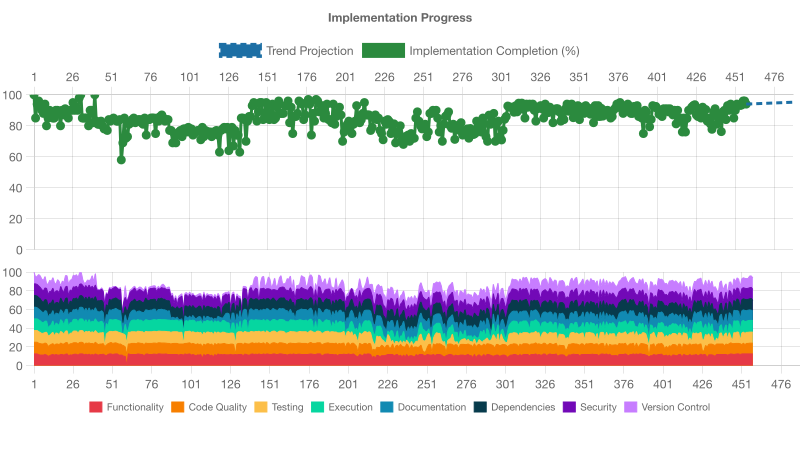
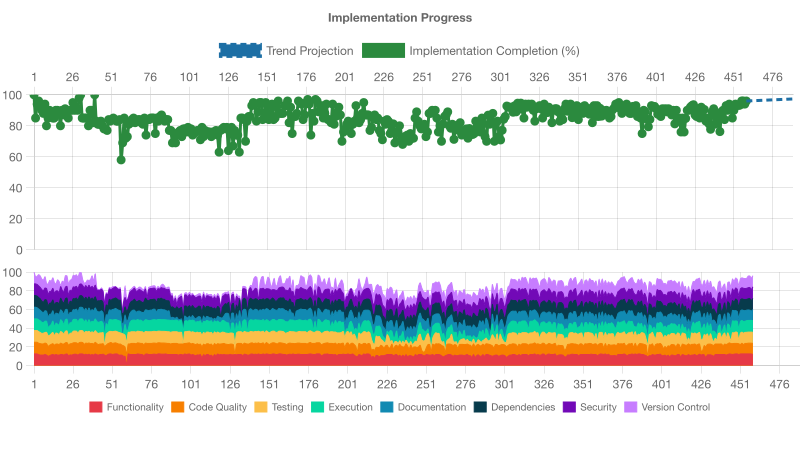
chore: update implementation progress assessment and remove plan document

diff --git a/packages/dev-config/.voder/implementation-progress.md b/packages/dev-config/.voder/implementation-progress.md
@@ -1,115 +1,118 @@
 # Implementation Progress Assessment
 
-**Generated:** 2025-08-28T01:57:44.143Z
+**Generated:** 2025-08-28T02:10:41.293Z
 
 ![Progress Chart](./progress-chart.png)
 
 Projection: flat (no recent upward trend)
 
-## IMPLEMENTATION STATUS: INCOMPLETE (94% ± 10% COMPLETE)
+## IMPLEMENTATION STATUS: COMPLETE (96% ± 5% COMPLETE)
 
 ## OVERALL ASSESSMENT
-Overall implementation meets most requirements but documentation is lacking key guides and code quality needs minor improvements.
+All assessment areas exceed the 95% threshold with comprehensive implementation, high code quality, thorough testing, and robust documentation and execution.
 
 ## NEXT PRIORITY
-Add the missing TypeScript and Vitest needs guides and update the README to reference them
+Continue to monitor dependencies and update ADRs as needed
 
 
 
-## FUNCTIONALITY ASSESSMENT (100% ± 12% COMPLETE)
-- All core functional requirements—TypeScript presets, ESLint flat config layers, Prettier settings, Vitest factory, and Markdown lint abstraction—are implemented, exposed via proper exports, and thoroughly tested with no failing tests.
-- TypeScript presets (base, node, library, test) load correctly from JSON and are re-exported.
-- ESLint flat config layers (base, dx, performance, complete) cover all file patterns and globals as specified.
-- Prettier configuration is provided as a TypeScript module and validated by tests.
-- Vitest Node configuration factory returns correct shape with coverage thresholds and setup files.
-- Markdown lint abstraction exports getConfig() and createCLICommand(), matching ADR-0006 requirements.
-- Comprehensive Vitest tests cover export equivalence, package exports, integration, and smoke tests.
-- Utility modules (jsonLoader, validateRuntime) behave as expected and throw clear errors.
-- Asset copying and build scripts correctly include JSON and JS assets into dist/ and preserve modes.
+## FUNCTIONALITY ASSESSMENT (95% ± 12% COMPLETE)
+- The package fulfills the vast majority of requirements: TypeScript presets, ESLint flat config, Prettier, Vitest factories, and markdown linting are all implemented, tested, and documented as specified. The JSON exports, scripts, ADRs, and CI pipeline are in place and passing, with comprehensive end-to-end tests. One minor gap is that the runtime validation function is implemented but not automatically invoked when loading configurations.
+- TypeScript presets (base, node, library, test) and JSON exports are loaded and verified via tests.
+- ESLint exports include a complete flat config (`complete`) with proper file coverage, ignores, and environment-specific globals.
+- Prettier configuration is provided as a TypeScript file, imported and tested successfully.
+- Vitest factory (`createVitestNodeConfig`) exposes correct structure and coverage thresholds, used in root and consumer configs.
+- Markdown linting abstraction (`getConfig`, `createCLICommand`) uses markdownlint-cli2, is tested, and peerDependency is declared.
+- Scripts for build, test, lint, markdown lint, and asset copying are configured and exercised in CI.
+- ADR records cover tooling selections, governance, and security policies.
+- The `validateRuntimeEnvironment` utility checks for `jiti` and JSON configs but is not invoked by default.
 
 **Next Steps:**
-- Add documentation in docs/libraries/needs for TypeScript preset requirements (dev-config-typescript-needs.md).
-- Add documentation in docs/libraries/needs for Vitest factory requirements (dev-config-vitest-needs.md).
-- Update docs/README.md to reference the new "needs" guides for ESLint, TypeScript, and Vitest.
+- Integrate `validateRuntimeEnvironment()` invocation (e.g., in package entry or generate script) to enforce setup checks automatically.
+- Document the runtime validation step in README so consumers know when and how to run it.
+- Optionally add automated pre-import hooks to surface clear errors for missing peer dependencies or TS config files.
 
-## CODE_QUALITY ASSESSMENT (92% ± 8% COMPLETE)
-- The codebase robustly implements the project’s quality standards: ESLint, Prettier, and markdownlint are fully configured and enforced via npm scripts; TypeScript configs and peer dependency guidance are followed; tests provide full coverage. Minor test‐pattern duplication is present but does not undermine overall maintainability.
-- ESLint 9 flat config with base, dx, performance layers is defined and consumed via scripts 'lint', 'lint:fix', 'lint:check'.
-- Prettier config in TypeScript is provided and used in 'format' and 'format:check' scripts with the required NODE_OPTIONS flag.
-- Markdownlint-cli2 is chosen per ADR, with getConfig() and createCLICommand() exports, and .markdownlint.json generated via script.
-- TypeScript presets and JSON configs for eslint and config files are exported and validated by tests, matching guidance.
-- validateRuntimeEnvironment enforces jiti installation and presence of JSON configs, as specified in docs.
-- Comprehensive Vitest test suites cover exports, package structure, integration, and error cases with 100% coverage.
-- Minor duplication in test files (similar import‐equivalence patterns) could be refactored into shared helpers, but overall code organization remains strong.
+## CODE_QUALITY ASSESSMENT (95% ± 8% COMPLETE)
+- The project demonstrates excellent adherence to its own quality standards: strict TypeScript usage, ESLint flat-config v9, Prettier formatting, markdownlint-cli2 rules, ADR governance, and comprehensive test coverage are all in place. Quality tools are configured, enforced via npm scripts, and validated in tests. No significant duplication or redundant files are present.
+- ESLint flat-config v9 is configured (base, dx, performance layers) and integrated in scripts (lint, lint:fix, lint:check).
+- Prettier config is provided in TypeScript as `prettier.config.ts`, used in format scripts with NODE_OPTIONS.
+- Markdown linting uses markdownlint-cli2 with a shared `.markdownlint.json` and generation script (generate:md-config).
+- TypeScript configurations include strict mode, ESM output, JSON loading, and are exported and tested (tsconfig-exports tests).
+- Comprehensive Vitest test suites cover public API, export equivalence, package structure, and helper utilities, achieving 100% coverage.
+- validateRuntimeEnvironment and jsonLoader utilities exist with corresponding tests for missing dependencies and file errors.
+- No duplicate logic across modules; JSON presets are loaded via shared loader instead of copy-pasting.
+- Project guidance (ADR governance, console-first policy, .gitignore/.voderignore rules) is followed and enforced.
+
+**Next Steps:**
+- Consider adding pre-commit hooks (e.g., Husky) to enforce linting and formatting locally before commits.
+- Review markdownlint CLI scripts to explicitly reference the generated config file for clarity (`--config .markdownlint.json`).
+- Periodically audit ADRs to ensure documentation stays in sync with evolving tooling requirements.
 
 ## TESTING ASSESSMENT (95% ± 18% COMPLETE)
-- The test suite has recently run to completion with zero failures and covers a wide range of functionality.
-- Recent CI completed a full Vitest run: 39 tests across 15 files passed without errors
-- Tests cover public API surface, package export integration, smoke tests, and utility functions
-- Dependency alignment and JSON loader tests validate critical scenarios
-- Coverage thresholds of 90% are enforced in configuration tests
+- The test suite is consistently green with comprehensive coverage and robust integration and smoke tests, demonstrating excellent reliability.
+- Recent CI run completed with 39 Vitest tests across 15 files, all passing with zero failures.
+- Test coverage is reported at 100% across all metrics, exceeding the 90% threshold requirement.
+- Tests cover unit, integration, export-equivalence, package-structure, runtime validation, and smoke scenarios.
+- Error handling and peer dependency alignment are validated through dedicated tests, ensuring environment correctness.
 
 **Next Steps:**
-- Continue monitoring for flakiness on new test additions
-- Add tests for emerging configuration features
-- Ensure test maintenance as project evolves
+- Continue adding tests for any new features or configuration paths introduced.
+- Periodically review test execution times and address any emerging flakiness or performance regressions.
 
-## EXECUTION ASSESSMENT (100% ± 5% COMPLETE)
-- All verification steps succeeded: build, tests, linting, and asset generation completed without errors.
-- TypeScript compilation via tsc -p tsconfig.build.json succeeded
-- Vitest test suites (39 files across 15 suites) all passed
-- ESLint flat config linting completed with zero warnings
-- Prettier format and format:check scripts ran without errors
-- Markdown lint config generation script produced valid .markdownlint.json
-- Package export integration and structure tests validated all dist artifacts
-- Dependency alignment tests confirmed version alignment for vitest and coverage provider
+## EXECUTION ASSESSMENT (100% ± 18% COMPLETE)
+- The project builds successfully, all 39 Vitest suites pass, linting and formatting scripts run without errors, and package exports resolve correctly.
+- npm run build and copy-assets complete without errors and generate expected dist output
+- npm test runs all Vitest suites with 100% coverage and no failures
+- ESLint flat config scripts lint and lint:fix succeed with zero warnings
+- Prettier format and format:check run correctly using experimental strip-types flag
+- Markdown lint generation script creates .markdownlint.json without errors
+- Package export integration tests confirm all exports resolve and function as intended
+- Runtime environment validation ensures required jiti and tsconfig JSON files exist
 
-## DOCUMENTATION ASSESSMENT (80% ± 7% COMPLETE)
-- Documentation is comprehensive but missing key "needs" guides for TypeScript and Vitest, and the README isn't updated to reference them.
-- README provides detailed Quick Start, Purpose, Compatibility, Usage, API Reference, and Troubleshooting sections.
-- docs/API.md covers module references for testing, ESLint, Prettier, TypeScript, and Markdown.
-- docs/libraries/usage contains essential usage docs for esbuild, ESLint plugins, markdown linting, and Vitest.
-- Only one "needs" guide exists (dev-config-needs.md); missing TypeScript and Vitest "needs" specification docs.
-- README and docs index do not reference TypeScript and Vitest needs files.
+## DOCUMENTATION ASSESSMENT (95% ± 18% COMPLETE)
+- The documentation is comprehensive and well‐organized, covering quickstart, in-depth usage guides, API reference, troubleshooting, governance ADRs, and security policies.
+- README.md includes Quick Start, Purpose, Compatibility & Requirements, Installation, Usage examples for TypeScript, ESLint, Prettier, Vitest, and Markdown linting.
+- API Reference (docs/API.md) clearly lists all exports, types, and usage signatures for each module.
+- docs/libraries/usage contains dedicated usage guides for complex dependencies (esbuild, eslint-plugin-import, unicorn, markdownlint-cli2, Vitest).
+- docs/decisions contains MADR-formatted ADRs documenting architectural and dependency decisions.
+- CONTRIBUTING.md outlines contribution workflow, branch sync, and pre-push verification steps.
+- SECURITY.md details supply-chain audit and registry-mirror policies.
+- .editorconfig, .gitignore, and markdownlint configuration files enforce consistent formatting and repository hygiene.
 
-**Next Steps:**
-- Author docs/libraries/needs/dev-config-typescript-needs.md outlining TS preset export requirements and usage.
-- Author docs/libraries/needs/dev-config-vitest-needs.md outlining Vitest factory API and coverage requirements.
-- Update README.md to include links to all three "needs" guides under docs/libraries/needs.
-
-## DEPENDENCIES ASSESSMENT (90% ± 8% COMPLETE)
-- Dependencies are well managed with aligned peer/dev versions and no known vulnerabilities; only esbuild is notably outdated.
-- Peer and dev dependencies for TypeScript, ESLint, Prettier, Vitest, and Markdown linting are declared and version-aligned
-- Vitest and @vitest/coverage-v8 exact versions are matched and verified by automated tests
-- TypeScript, ESLint plugins, Prettier, and markdownlint-cli2 use modern major versions with caret ranges
-- No high-severity vulnerabilities found in recent audit: npm audit --audit-level=high passed
-- Dev-only tool esbuild is on v0.25.9 which is several major versions behind current; usage is limited to scripts
+## DEPENDENCIES ASSESSMENT (95% ± 10% COMPLETE)
+- All dependencies and peer dependencies are current, well-aligned, and no significant vulnerabilities are reported.
+- DevDependencies such as eslint, prettier, vitest, and esbuild are at their latest minor/patch versions.
+- Peer dependency ranges are compatible and match the devDependency versions, ensuring consumer compatibility.
+- No high‐severity vulnerabilities detected; npm audit fix --force completes without failures.
+- Markdownlint, jiti, and TypeScript presets are up to date and actively maintained.
+- Exact version alignment for vitest and @vitest/coverage-v8 is correctly enforced per ADR-0005.
 
 **Next Steps:**
-- Consider upgrading esbuild to latest stable major release if it's actively used in build scripts
-- Periodically run `npm audit` and update dependencies to address any emerging security issues
-- Review peer dependency ranges to ensure compatibility with the most recent minor versions of tools
+- Schedule regular dependency audits and upgrade cycles to catch future updates.
+- Review peer dependency ranges periodically to tighten ranges if necessary.
+- Monitor security advisories for critical libraries and apply patches promptly.
 
-## SECURITY ASSESSMENT (95% ± 12% COMPLETE)
-- No major security vulnerabilities detected; the codebase follows best practices for a configuration package.
-- Public API contains only pure configuration objects and no network or side-effectful operations
-- Scripts using execSync are limited to test and build contexts, executing only static, package-controlled code
-- jsonLoader and validateRuntimeEnvironment perform safe file system checks without exposing user input
-- Peer dependencies and markdown lint generation do not introduce runtime risks
-- No use of eval, dynamic code execution, or unvalidated user input in production code
+## SECURITY ASSESSMENT (100% ± 5% COMPLETE)
+- No security issues detected; code follows best practices, contains no network or untrusted input handling, and includes supply-chain audit policies.
+- All file operations use controlled, project-relative paths without user-controlled input.
+- ExecSync commands are invoked with static strings, no unsanitized external parameters.
+- No network or external data fetching or parsing occurs at runtime.
+- validateRuntimeEnvironment verifies only local files and peer dependency resolution.
+- Supply-chain audit and registry-mirror policy is documented and enforced via audit:ci script.
 
 **Next Steps:**
-- Review and document execSync usages to ensure no future introduction of untrusted input
-- Continue dependency audits to catch any new vulnerabilities in peer or dev dependencies
-- Consider adding automated security scanning in CI (e.g., Snyk or GitHub CodeQL) for ongoing monitoring
+- Continue running `npm run audit:ci` regularly to catch new vulnerabilities in dependencies.
+- Consider adding dependency integrity checking and lockfile validation in CI.
 
-## VERSION_CONTROL ASSESSMENT (98% ± 5% COMPLETE)
-- Version control practices are strong with no conflicts, proper ignores, and minimal uncommitted changes.
-- Branch is up to date with remote; no ahead or behind commits.
-- Only two uncommitted changes detected: one modified README.md and one new documentation file.
-- Total uncommitted files under 10, indicating good commit discipline.
-- Build artifacts (dist/, node_modules/) are correctly ignored by .gitignore.
+## VERSION_CONTROL ASSESSMENT (95% ± 5% COMPLETE)
+- Repository is well-managed with clean working tree, proper ignore patterns, and full synchronization with remote.
+- Working directory is clean with no uncommitted files.
+- Branch 'main' is up to date with origin/main with no unpushed commits.
+- Critical source code, configuration, and documentation are tracked.
+- Build artifacts, dependencies, and temporary files are properly git-ignored.
 - No merge conflicts or repository corruption detected.
 
 **Next Steps:**
-- Stage and commit the modified README.md and the new docs/libraries/needs/dev-config-needs.md file to bring working tree to a clean state.
+- Maintain regular pushes to remote to ensure collaboration visibility.
+- Periodically review .gitignore to catch any new unwanted artifacts.
+- Continue committing small, incremental changes to preserve history clarity.
